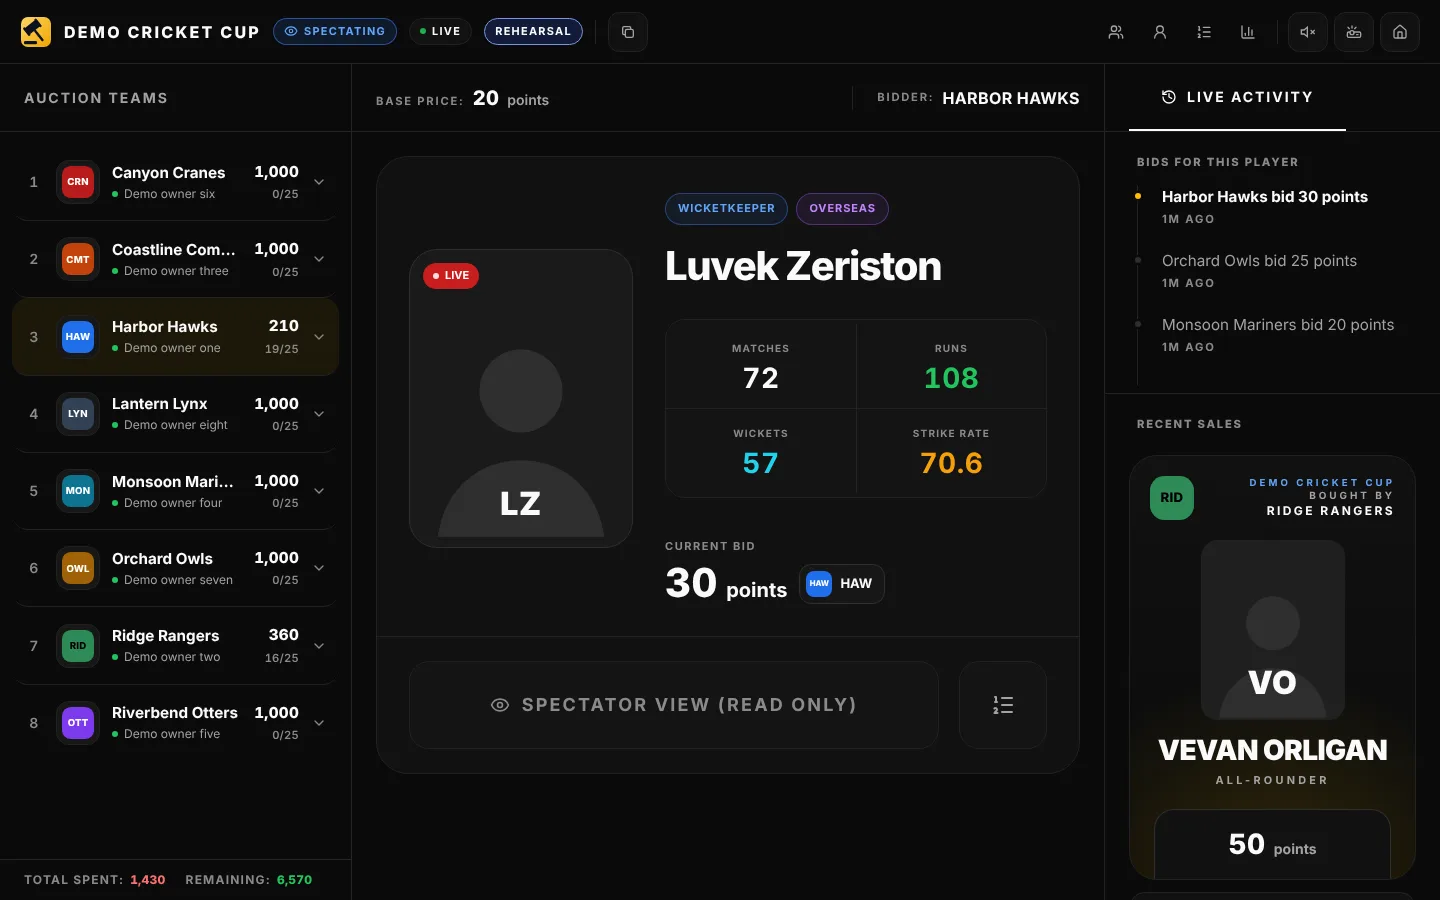
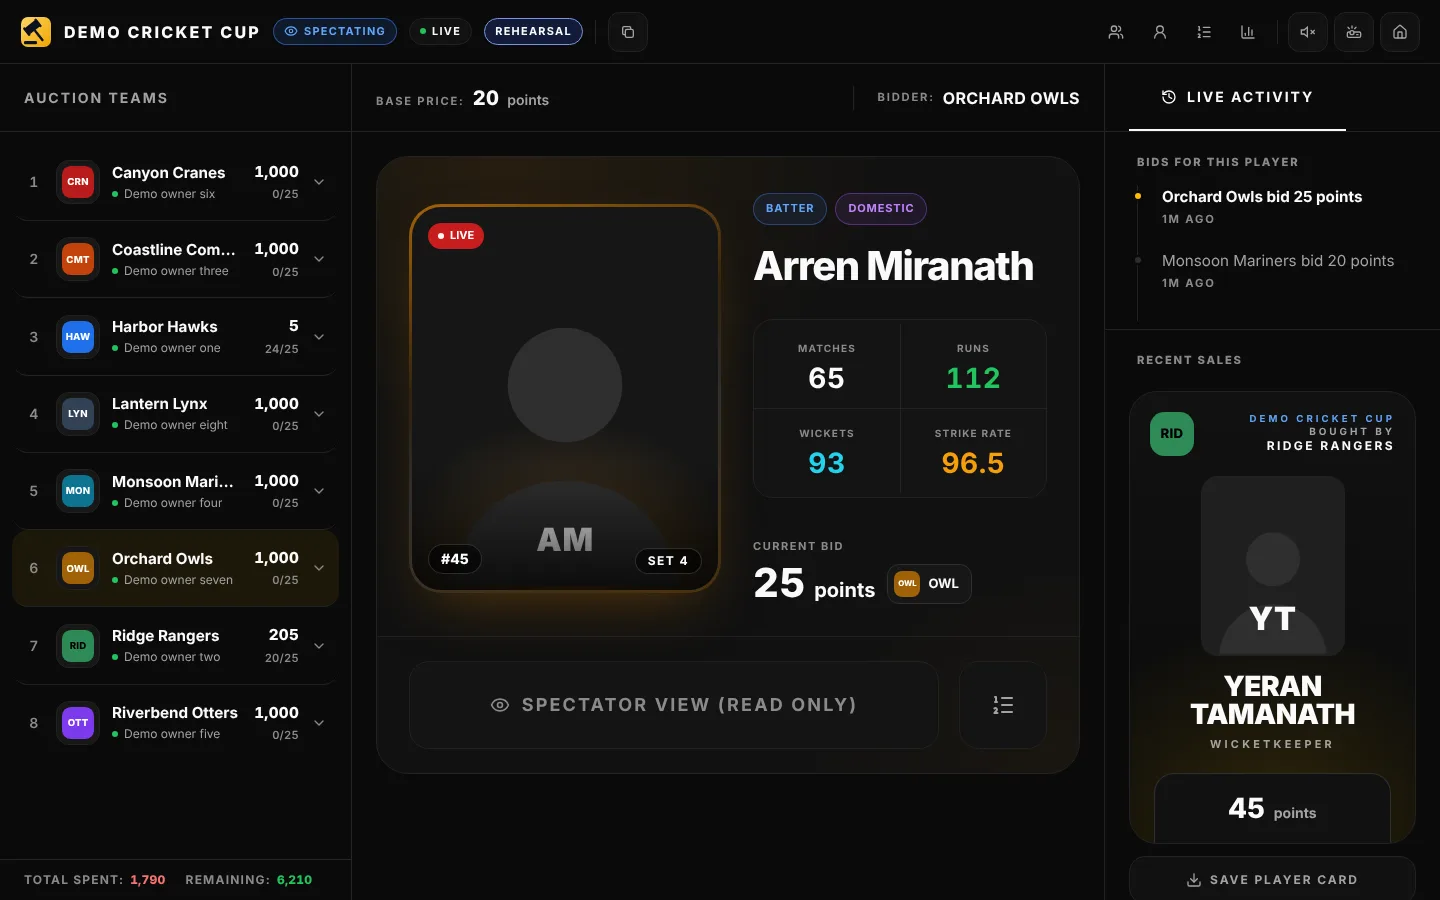
Live room: larger player photo in a team-coloured frame
- Photo grows to about 26rem wide on large screens (was 18.75rem) and
  fills the card on phones; 4:5 portrait with steps at each card width
- Frame and soft glow in the bidding team's colour (gold before any
  bid, green once sold), bottom fade with lot number and set on the
  photo, and a faint matching glow across the card
- Demo screenshots retaken

Claude-Session: https://claude.ai/code/session_01RsxGJo4Up38bAYyKZaoQs7

diff --git a/src/components/live/room-stage.tsx b/src/components/live/room-stage.tsx
@@ -52,10 +52,16 @@ export function RoomStage({ snapshot, timerLeft }: { snapshot: Snapshot; timerLe
   const stats = a.sportConfig.statFields.filter((s) => s.showOnCard).slice(0, 4);
   const total = a.bidTimerSeconds ?? 0;
   const timerShown = live && timerLeft !== null && total > 0;
+  // Accent for the photo frame and card glow: the bidding team's colour, gold before any bid, green once sold.
+  const glow = sold ? "#22c55e" : /^#[0-9a-f]{6}$/i.test(shownTeam?.primaryColor ?? "") ? shownTeam!.primaryColor : "#ffbf00";
   const barPct = timerShown ? Math.max(0, Math.min(100, ((timerLeft ?? 0) / total) * 100)) : sold ? 100 : 0;
 
   return (
-    <article aria-labelledby="stage-name" className="@container flex flex-col overflow-hidden rounded-[2rem] border border-line bg-surface">
+    <article
+      aria-labelledby="stage-name"
+      className="@container relative flex flex-col overflow-hidden rounded-[2rem] border border-line bg-surface"
+      style={{ backgroundImage: `radial-gradient(90% 70% at 18% 0%, ${glow}26, transparent 62%), radial-gradient(70% 60% at 100% 100%, ${glow}12, transparent 60%)` }}
+    >
       {/* Phones have no room header row, so base price and bidder sit here. */}
       <div className="flex flex-wrap items-center gap-x-6 gap-y-1 border-b border-line px-5 py-3 lg:hidden">
         <p className="flex items-baseline gap-2">
@@ -72,15 +78,28 @@ export function RoomStage({ snapshot, timerLeft }: { snapshot: Snapshot; timerLe
         <div className="h-full rounded-r-full bg-[#22c55e] transition-[width] duration-300 ease-linear" style={{ width: `${barPct}%` }} />
       </div>
 
-      <div className="grid grid-cols-[minmax(0,1fr)] items-center gap-8 px-6 py-8 @[36rem]:grid-cols-[minmax(0,14rem)_minmax(0,1fr)] @[36rem]:px-8 @[52rem]:grid-cols-[minmax(0,18.75rem)_minmax(0,1fr)] @[52rem]:gap-12 @[52rem]:px-12 @[52rem]:py-12">
-        <div className="relative mx-auto w-full max-w-[18.75rem] @[36rem]:max-w-none">
-          <PlayerPhoto name={p.fullName} photoPath={p.photoPath} priority sizes="(min-width: 768px) 300px, 90vw" className="!aspect-[3/4] !rounded-[1.75rem] border border-line-strong !bg-[#1a1a1a]" />
-          {live ? (
-            <span className="absolute left-3.5 top-3.5 inline-flex items-center gap-1.5 rounded-full bg-[#c81e1e] px-2.5 py-1 text-[0.6875rem] font-extrabold uppercase text-white">
-              <span aria-hidden="true" className="live-dot size-1.5 rounded-full bg-current" />
-              {t("status.live")}
-            </span>
-          ) : null}
+      <div className="grid grid-cols-[minmax(0,1fr)] items-center gap-8 px-6 py-8 @[36rem]:grid-cols-[minmax(0,17rem)_minmax(0,1fr)] @[36rem]:px-8 @[42rem]:grid-cols-[minmax(0,19.5rem)_minmax(0,1fr)] @[48rem]:grid-cols-[minmax(0,21rem)_minmax(0,1fr)] @[52rem]:gap-12 @[52rem]:px-12 @[52rem]:py-12 @[60rem]:grid-cols-[minmax(0,26rem)_minmax(0,1fr)]">
+        {/* Photo in a frame lit in the colour of the team that is bidding (gold before any bid, green once sold). */}
+        <div className="relative mx-auto w-full max-w-[22rem] @[36rem]:max-w-none">
+          <div
+            className="rounded-[2rem] p-[3px]"
+            style={{ background: `linear-gradient(160deg, ${glow}, ${glow}33 38%, #2f2f2f 60%, ${glow}66)`, boxShadow: `0 24px 60px -24px ${glow}88` }}
+          >
+            <div className="relative overflow-hidden rounded-[calc(2rem-3px)]" style={{ background: `radial-gradient(85% 65% at 50% 100%, ${glow}55, #161616 70%)` }}>
+              <PlayerPhoto name={p.fullName} photoPath={p.photoPath} priority sizes="(min-width: 1536px) 416px, (min-width: 768px) 340px, 90vw" className="!aspect-[4/5] !rounded-none !bg-transparent" />
+              <div aria-hidden="true" className="pointer-events-none absolute inset-x-0 bottom-0 h-1/3 bg-[linear-gradient(180deg,transparent,rgb(0_0_0/0.75))]" />
+              <div className="absolute inset-x-4 bottom-4 flex items-end justify-between gap-2">
+                <span className="num rounded-full border border-white/15 bg-black/55 px-3 py-1 text-sm font-extrabold text-white">#{p.lotNo}</span>
+                {p.setName ? <span className="truncate rounded-full border border-white/15 bg-black/55 px-3 py-1 text-xs font-extrabold uppercase tracking-[0.12em] text-white">{p.setName}</span> : null}
+              </div>
+              {live ? (
+                <span className="absolute left-4 top-4 inline-flex items-center gap-1.5 rounded-full bg-[#c81e1e] px-2.5 py-1 text-[0.6875rem] font-extrabold uppercase text-white">
+                  <span aria-hidden="true" className="live-dot size-1.5 rounded-full bg-current" />
+                  {t("status.live")}
+                </span>
+              ) : null}
+            </div>
+          </div>
         </div>
 
         <div className="flex min-w-0 flex-col">
